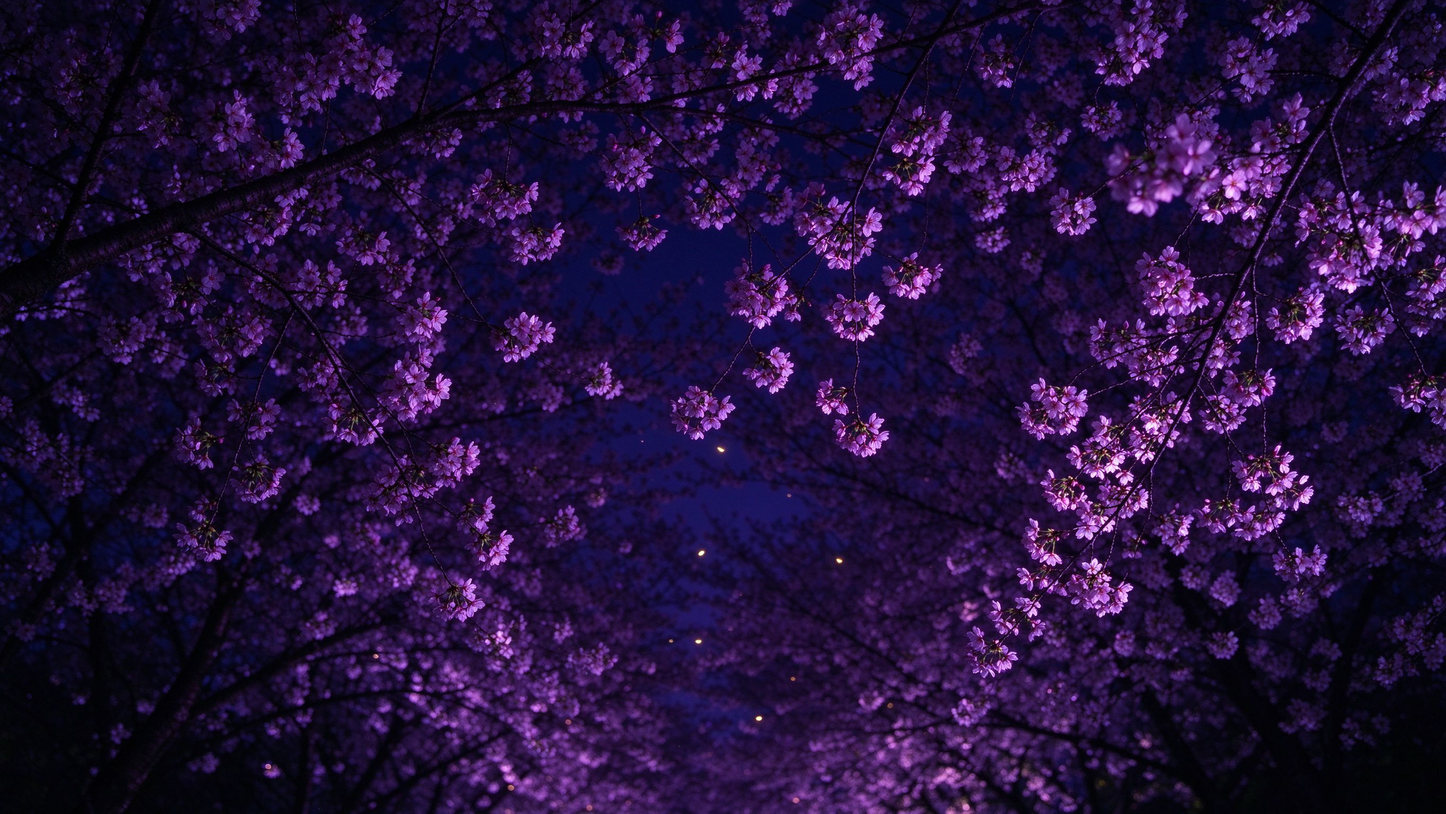
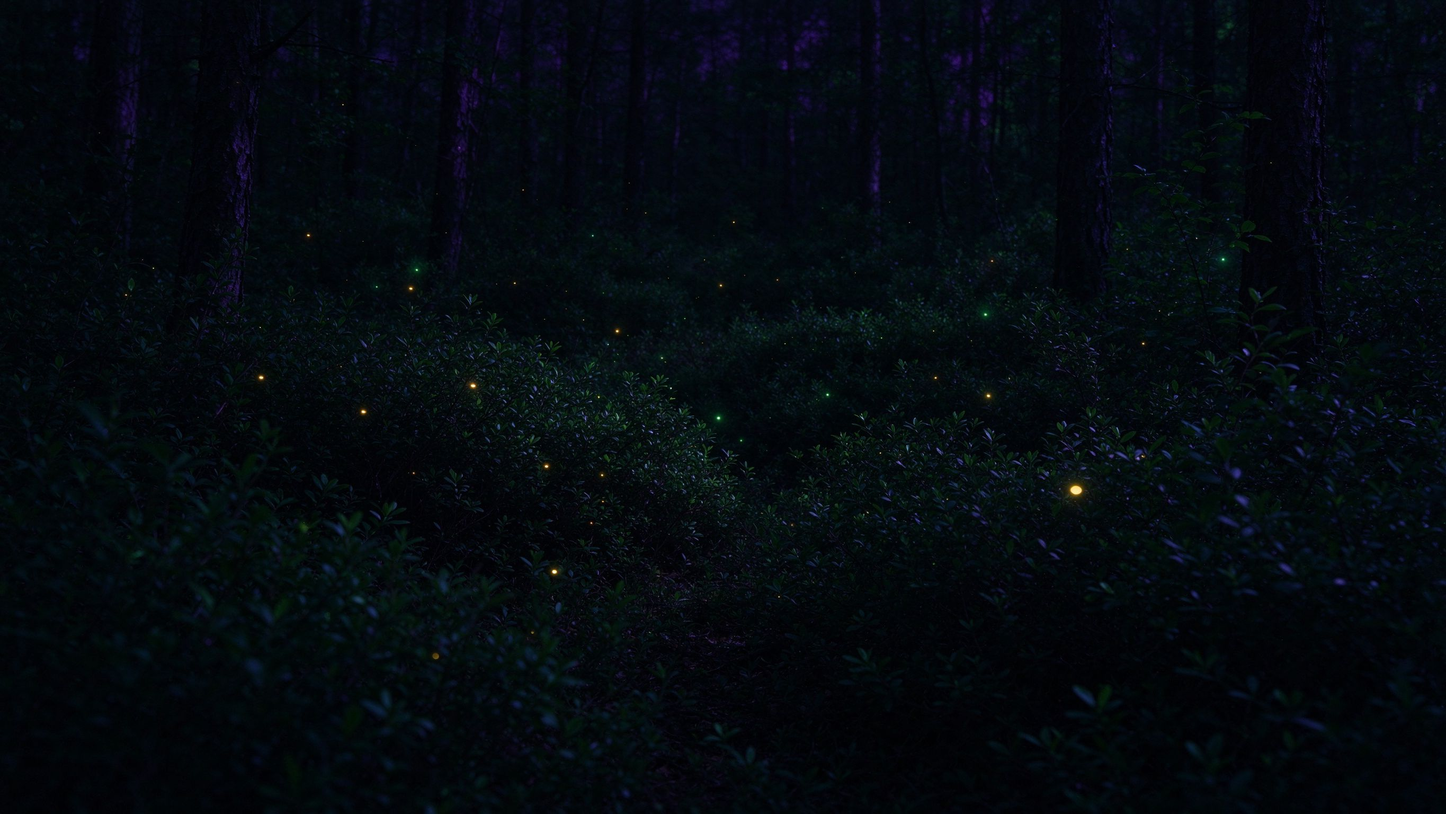
渐进式集结动画+低矮灌木森林背景

diff --git a/docs/article1.md b/docs/article1.md
@@ -8,7 +8,7 @@ VitePress 可以渲染Markdown格式文本。
 console.log("hello vitepress")
 ```
 
-<canvas id="heart-canvas" style="width:100%;height:420px;border-radius:18px;display:block;box-shadow:0 8px 32px rgba(255,100,150,0.2);"></canvas>
+<canvas id="heart-canvas" style="width:100%;height:420px;border-radius:18px;display:block;box-shadow:0 8px 32px rgba(100,200,120,0.15);"></canvas>
 
 <script setup>
 import { onMounted, onUnmounted } from 'vue'
@@ -29,182 +29,166 @@ onMounted(() => {
   canvas.width = W
   canvas.height = H
 
-  // === 3D 爱心点云（参数方程分层采样，描点清晰） ===
-  function buildHeartPoints(count) {
+  // === 预加载背景图 ===
+  const bgImg = new Image()
+  bgImg.src = '/my-blog/heart-bg.jpg'
+
+  // === 3D 爱心锚点（参数方程分层采样） ===
+  function buildHeartTargets(count) {
     const pts = []
-    const layers = 14  // 从内到外14层爱心轮廓
+    const layers = 14
     const perLayer = Math.floor(count / layers)
     for (let i = 0; i < layers; i++) {
       const scale = 0.25 + (i / layers) * 0.75
       for (let j = 0; j < perLayer; j++) {
         const t = (j / perLayer) * Math.PI * 2
-        // 经典爱心参数方程
         const hx = 16 * Math.pow(Math.sin(t), 3)
         const hy = 13 * Math.cos(t) - 5 * Math.cos(2*t) - 2 * Math.cos(3*t) - Math.cos(4*t)
         const z = (Math.random() - 0.5) * 14
-        pts.push({
-          x: hx * scale * 2.2,
-          y: -hy * scale * 2.2,
-          z: z
-        })
+        pts.push({ x: hx * scale * 2.2, y: -hy * scale * 2.2, z: z })
       }
     }
     return pts
   }
 
-  const heartTargets = buildHeartPoints(1500)
+  const targets = buildHeartTargets(1200)
 
-  // === 预加载背景图 ===
-  const bgImg = new Image()
-  bgImg.src = '/my-blog/heart-bg.jpg'
-
-  // === 主粒子：萤火 + 组爱心 ===
+  // === 主粒子：飘散位置 + 爱心锚点，按 progress 插值 ===
   class Firefly {
-    constructor() {
-      this.reset()
+    constructor(target) {
+      this.target = target
+      this.driftX = Math.random() * W   // 飘散位置
+      this.driftY = Math.random() * H
+      this.vx = (Math.random() - 0.5) * 0.3  // 飘散速度（比环境粒子稍快一点）
+      this.vy = (Math.random() - 0.5) * 0.3
+      this.size = Math.random() * 1.8 + 0.8
+      this.hue = 45 + Math.random() * 20  // 暖黄萤火色
       this.phase = Math.random() * Math.PI * 2
-      this.twinkleSpeed = Math.PI * 2 / 60  // 1秒闪烁周期（60帧）
-      this.size = Math.random() * 2 + 1
-      this.hue = 330 + Math.random() * 30
-      this.sat = 85 + Math.random() * 15
-      this.lum = 60 + Math.random() * 20
+      this.twinkleSpeed = Math.PI * 2 / 60
     }
-    reset() {
-      this.x = Math.random() * W
-      this.y = Math.random() * H
-      this.vx = (Math.random() - 0.5) * 0.4
-      this.vy = (Math.random() - 0.5) * 0.4
-      this.opacity = 0
-      this.target = null
+    updateDrift() {
+      this.driftX += this.vx
+      this.driftY += this.vy
+      if (this.driftX < 0 || this.driftX > W) this.vx *= -1
+      if (this.driftY < 0 || this.driftY > H) this.vy *= -1
     }
-    setTarget(t) { this.target = t }
   }
 
-  const fireflies = heartTargets.map((t, i) => {
-    const f = new Firefly()
-    f.setTarget(t)
-    return f
-  })
+  const fireflies = targets.map(t => new Firefly(t))
 
-  // === 贴地飞行的环境粒子（少量，不死感） ===
-  const groundBugs = []
-  for (let i = 0; i < 25; i++) {
-    groundBugs.push({
+  // === 环境粒子：始终在全图缓慢飘，不参与组成 ===
+  const ambient = []
+  for (let i = 0; i < 40; i++) {
+    ambient.push({
       x: Math.random() * W,
-      y: H * 0.75 + Math.random() * H * 0.2,
-      vx: (Math.random() - 0.5) * 1.2,
-      vy: (Math.random() - 0.5) * 0.3,
-      size: Math.random() * 1.2 + 0.5,
-      phase: Math.random() * Math.PI * 2,
-      hue: 40 + Math.random() * 20  // 偏暖黄
+      y: Math.random() * H,
+      vx: (Math.random() - 0.5) * 0.15,  // 更慢
+      vy: (Math.random() - 0.5) * 0.15,
+      size: Math.random() * 1 + 0.4,
+      hue: 40 + Math.random() * 30,
+      phase: Math.random() * Math.PI * 2
     })
   }
 
-  // === 动画阶段 ===
-  // 0:萤火闪烁(5秒) 1:缓慢汇聚爱心(4秒) 2:维持旋转(3.5秒) 3:散开隐匿(2秒)
-  let phase = 0
-  let frame = 0
-  let rotY = 0
+  // === 连续 progress 控制：0=全图飘散，1=组成爱心 ===
+  // 时序：飘散2s → 缓慢集结6s → 维持3s → 缓慢散开6s → 循环
+  let progress = 0
+  let direction = 1  // 1=向爱心汇聚，-1=散开
+  let holdFrames = 0
   const FRAME = 60
-  const PHASE_FRAMES = [5 * FRAME, 4 * FRAME, 3.5 * FRAME, 2 * FRAME]
+  const GATHER_SPEED = 1 / (6 * FRAME)   // 6秒从0到1
+  const HOLD_FRAMES = 3 * FRAME          // 维持3秒
+  const DISPERSE_SPEED = 1 / (6 * FRAME) // 6秒从1到0
+
+  let rotY = 0
 
   function project3D(p, rot) {
     const cosY = Math.cos(rot), sinY = Math.sin(rot)
     const x = p.x * cosY + p.z * sinY
     const z = -p.x * sinY + p.z * cosY
-    const fov = 380  // 透视更强，近大远小
+    const fov = 380
     const s = fov / (fov + z + 180)
-    return {
-      sx: W / 2 + x * s,
-      sy: H / 2 + p.y * s,
-      scale: s,
-      depth: z
-    }
+    return { sx: W/2 + x*s, sy: H/2 + p.y*s, scale: s, depth: z }
   }
 
   function drawBackground() {
     if (bgImg.complete && bgImg.naturalWidth > 0) {
       ctx.drawImage(bgImg, 0, 0, W, H)
-      // 叠加一层半透明暗色让粒子更突出
-      ctx.fillStyle = 'rgba(10, 5, 20, 0.35)'
+      // 叠加暗色让粒子更突出
+      ctx.fillStyle = 'rgba(5, 10, 15, 0.3)'
       ctx.fillRect(0, 0, W, H)
     } else {
-      const g = ctx.createRadialGradient(W/2, H*0.4, 0, W/2, H/2, Math.max(W, H))
-      g.addColorStop(0, '#1a0f2e')
-      g.addColorStop(1, '#050310')
-      ctx.fillStyle = g
+      ctx.fillStyle = '#0a1510'
       ctx.fillRect(0, 0, W, H)
     }
   }
 
-  function drawParticle(x, y, size, color, opacity) {
+  function drawDot(x, y, size, color, opacity) {
     ctx.beginPath()
     ctx.arc(x, y, size, 0, Math.PI * 2)
     ctx.fillStyle = color
     ctx.globalAlpha = opacity
-    ctx.shadowBlur = 10
+    ctx.shadowBlur = 8
     ctx.shadowColor = color
     ctx.fill()
     ctx.shadowBlur = 0
     ctx.globalAlpha = 1
   }
 
+  let frame = 0
   function animate() {
     drawBackground()
     frame++
-    const time = frame / FRAME  // 秒
+    const time = frame / FRAME
 
-    // === 贴地飞行粒子（始终无规则飘） ===
-    groundBugs.forEach(b => {
-      b.x += b.vx
-      b.y += b.vy
-      if (b.x < 0 || b.x > W) b.vx *= -1
-      if (b.y < H*0.7 || b.y > H*0.95) b.vy *= -1
-      const tw = 0.3 + 0.5 * (0.5 + 0.5 * Math.sin(time * 2 * Math.PI + b.phase))
-      drawParticle(b.x, b.y, b.size, `hsl(${b.hue},90%,65%)`, tw * 0.7)
-    })
-
-    // === 阶段切换 ===
-    if (frame > PHASE_FRAMES.slice(0, phase + 1).reduce((a,b) => a+b, 0)) {
-      phase++
-      if (phase >= 4) {
-        phase = 0
-        frame = 0
-        fireflies.forEach(f => f.reset())
+    // === progress 连续变化 ===
+    if (direction === 1) {
+      progress += GATHER_SPEED
+      if (progress >= 1) {
+        progress = 1
+        direction = 0  // 进入维持
+        holdFrames = 0
+      }
+    } else if (direction === 0) {
+      holdFrames++
+      if (holdFrames > HOLD_FRAMES) direction = -1
+    } else {
+      progress -= DISPERSE_SPEED
+      if (progress <= 0) {
+        progress = 0
+        direction = 1  // 重新开始集结
       }
     }
 
-    // === 主粒子 ===
+    // 旋转只在接近爱心时明显
+    if (progress > 0.3) rotY += 0.006
+
+    // === 环境粒子（始终缓慢飘） ===
+    ambient.forEach(p => {
+      p.x += p.vx
+      p.y += p.vy
+      if (p.x < 0 || p.x > W) p.vx *= -1
+      if (p.y < 0 || p.y > H) p.vy *= -1
+      const tw = 0.3 + 0.5 * (0.5 + 0.5 * Math.sin(time * 2 * Math.PI + p.phase))
+      drawDot(p.x, p.y, p.size, `hsl(${p.hue},80%,60%)`, tw * 0.6)
+    })
+
+    // === 主粒子：飘散位置和爱心锚点按 progress 插值 ===
     fireflies.forEach(f => {
-      let twinkle = 0.5 + 0.5 * Math.sin(time * 2 * Math.PI + f.phase)
+      f.updateDrift()
+      const proj = project3D(f.target, rotY)
 
-      if (phase === 0) {
-        // 萤火闪烁：无规则漂移，一闪一闪
-        f.x += f.vx + (Math.random() - 0.5) * 0.3
-        f.y += f.vy + (Math.random() - 0.5) * 0.3
-        f.opacity = Math.min(f.opacity + 0.02, 0.3 + twinkle * 0.5)
-      } else if (phase === 1) {
-        // 缓慢组成爱心（3D投影目标点）
-        const proj = project3D(f.target, rotY)
-        f.x += (proj.sx - f.x) * 0.025
-        f.y += (proj.sy - f.y) * 0.025
-        f.opacity = Math.min(f.opacity + 0.02, 1)
-      } else if (phase === 2) {
-        // 维持展示：爱心缓慢旋转
-        rotY += 0.008
-        const proj = project3D(f.target, rotY)
-        f.x = proj.sx
-        f.y = proj.sy
-        f.opacity = 0.9 + twinkle * 0.1
-      } else if (phase === 3) {
-        // 散开隐匿
-        f.x += (Math.random() - 0.5) * 2
-        f.y += (Math.random() - 0.5) * 2 - 0.3
-        f.opacity = Math.max(f.opacity - 0.015, 0)
-      }
+      // 插值：progress=0 在飘散位置，progress=1 在爱心位置
+      const x = f.driftX * (1 - progress) + proj.sx * progress
+      const y = f.driftY * (1 - progress) + proj.sy * progress
 
-      const color = `hsl(${f.hue},${f.sat}%,${f.lum}%)`
-      drawParticle(f.x, f.y, f.size * (phase >= 1 ? 1.2 : 1), color, f.opacity)
+      // 闪烁
+      const twinkle = 0.5 + 0.5 * Math.sin(time * 2 * Math.PI + f.phase)
+      // 组成爱心时更亮更实
+      const opacity = (0.25 + twinkle * 0.3) * (1 - progress * 0.3) + progress * 0.7
+      const size = f.size * (0.8 + proj.scale * progress * 0.4)
+
+      drawDot(x, y, size, `hsl(${f.hue},85%,${60 + twinkle*15}%)`, Math.min(opacity, 1))
     })
 
     raf = requestAnimationFrame(animate)
